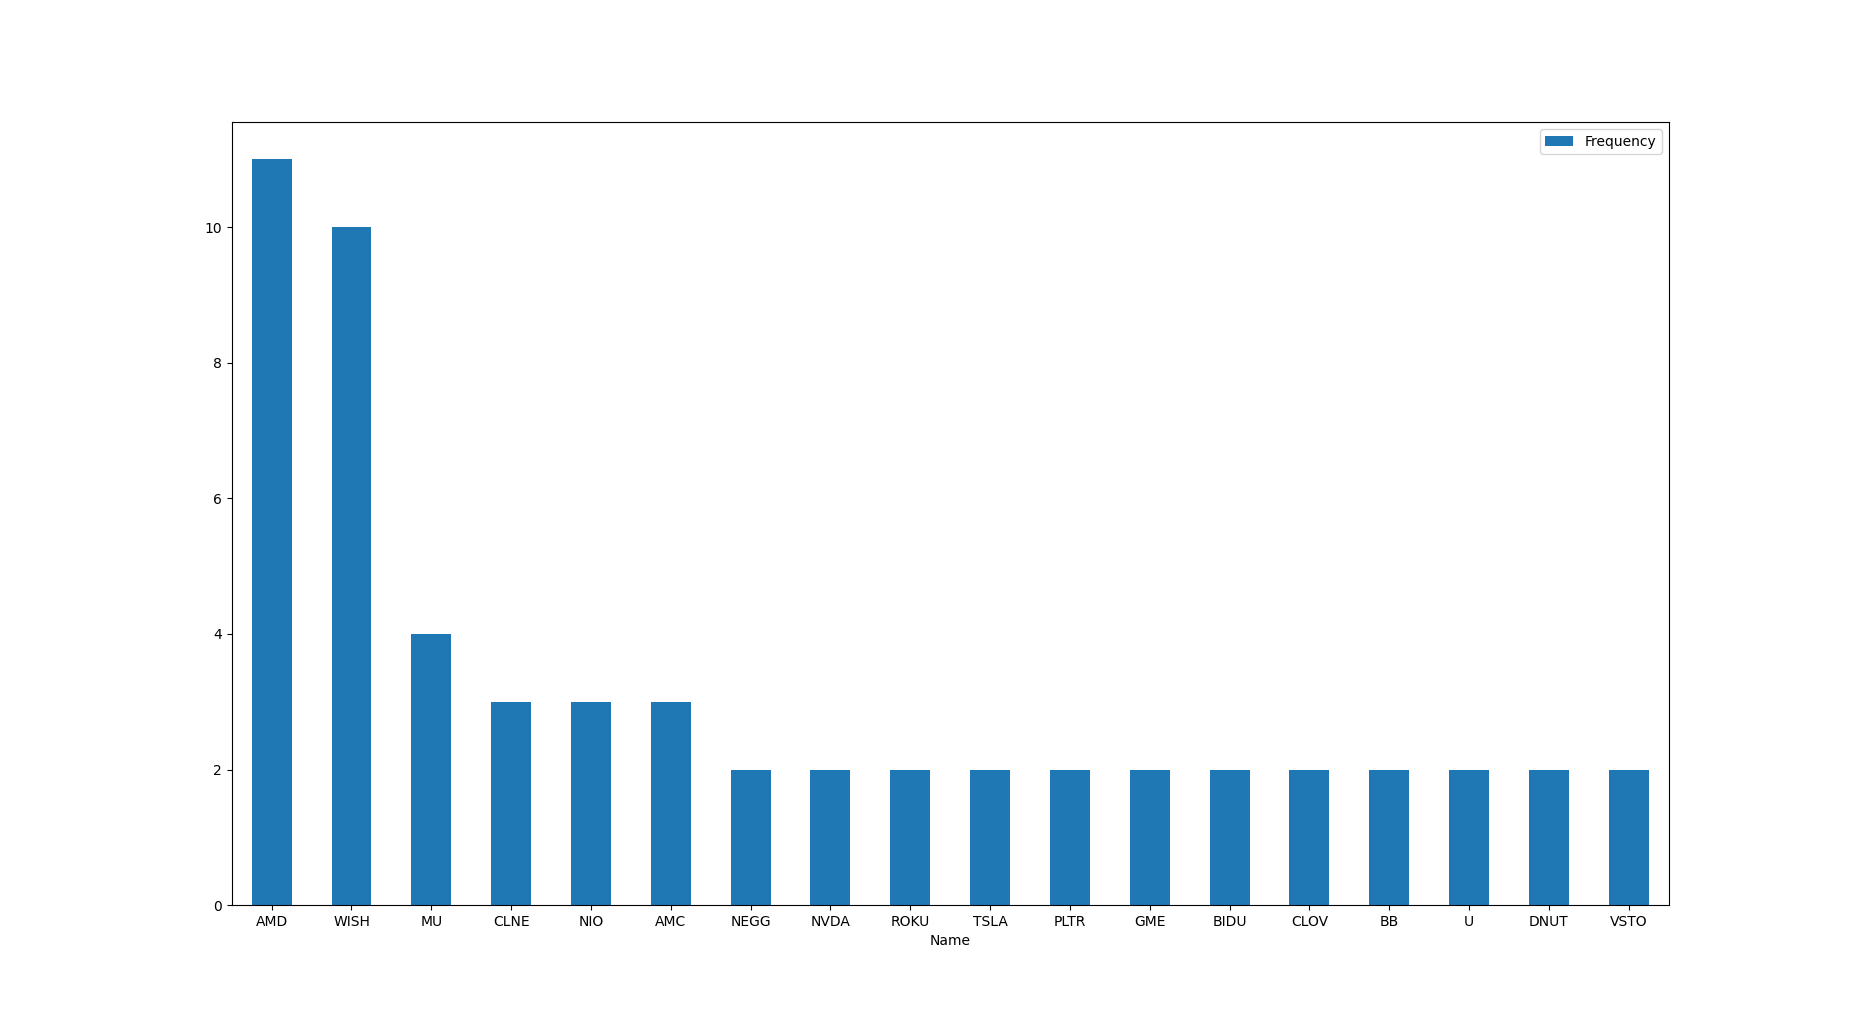
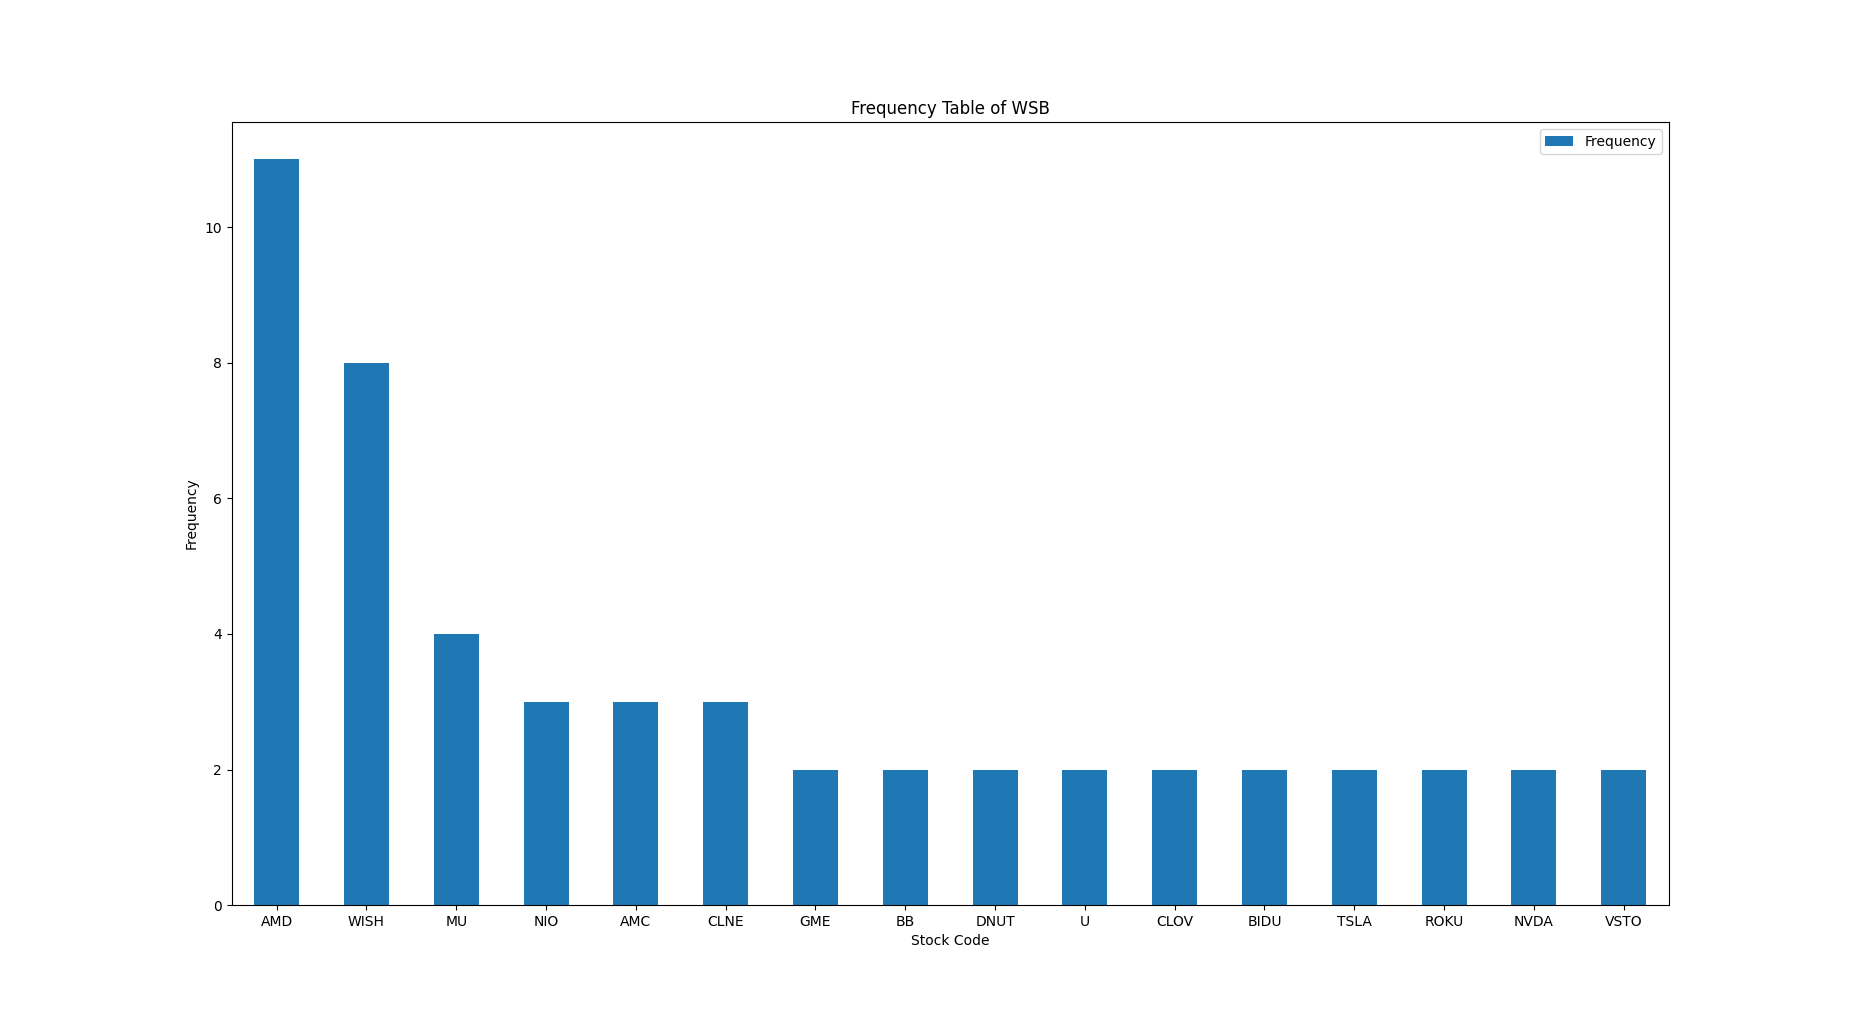
update minor bug

diff --git a/Code/main.py b/Code/main.py
@@ -153,7 +153,10 @@ cl_price = pd.DataFrame()
 
 # Print Bar Chart(Frequency)
 dict_freq = dict_freq[dict_freq.Frequency > 1]
-dict_freq.sort_values(by='Frequency', ascending =False).plot.bar(x="Name", y= "Frequency")
+ax = dict_freq.sort_values(by='Frequency', ascending =False).plot.bar(x="Name", y= "Frequency", rot=0)
+ax.set_title("Frequency Table of WSB")
+ax.set_xlabel("Stock Code")
+ax.set_ylabel("Frequency")
 plt.show()
 
 
